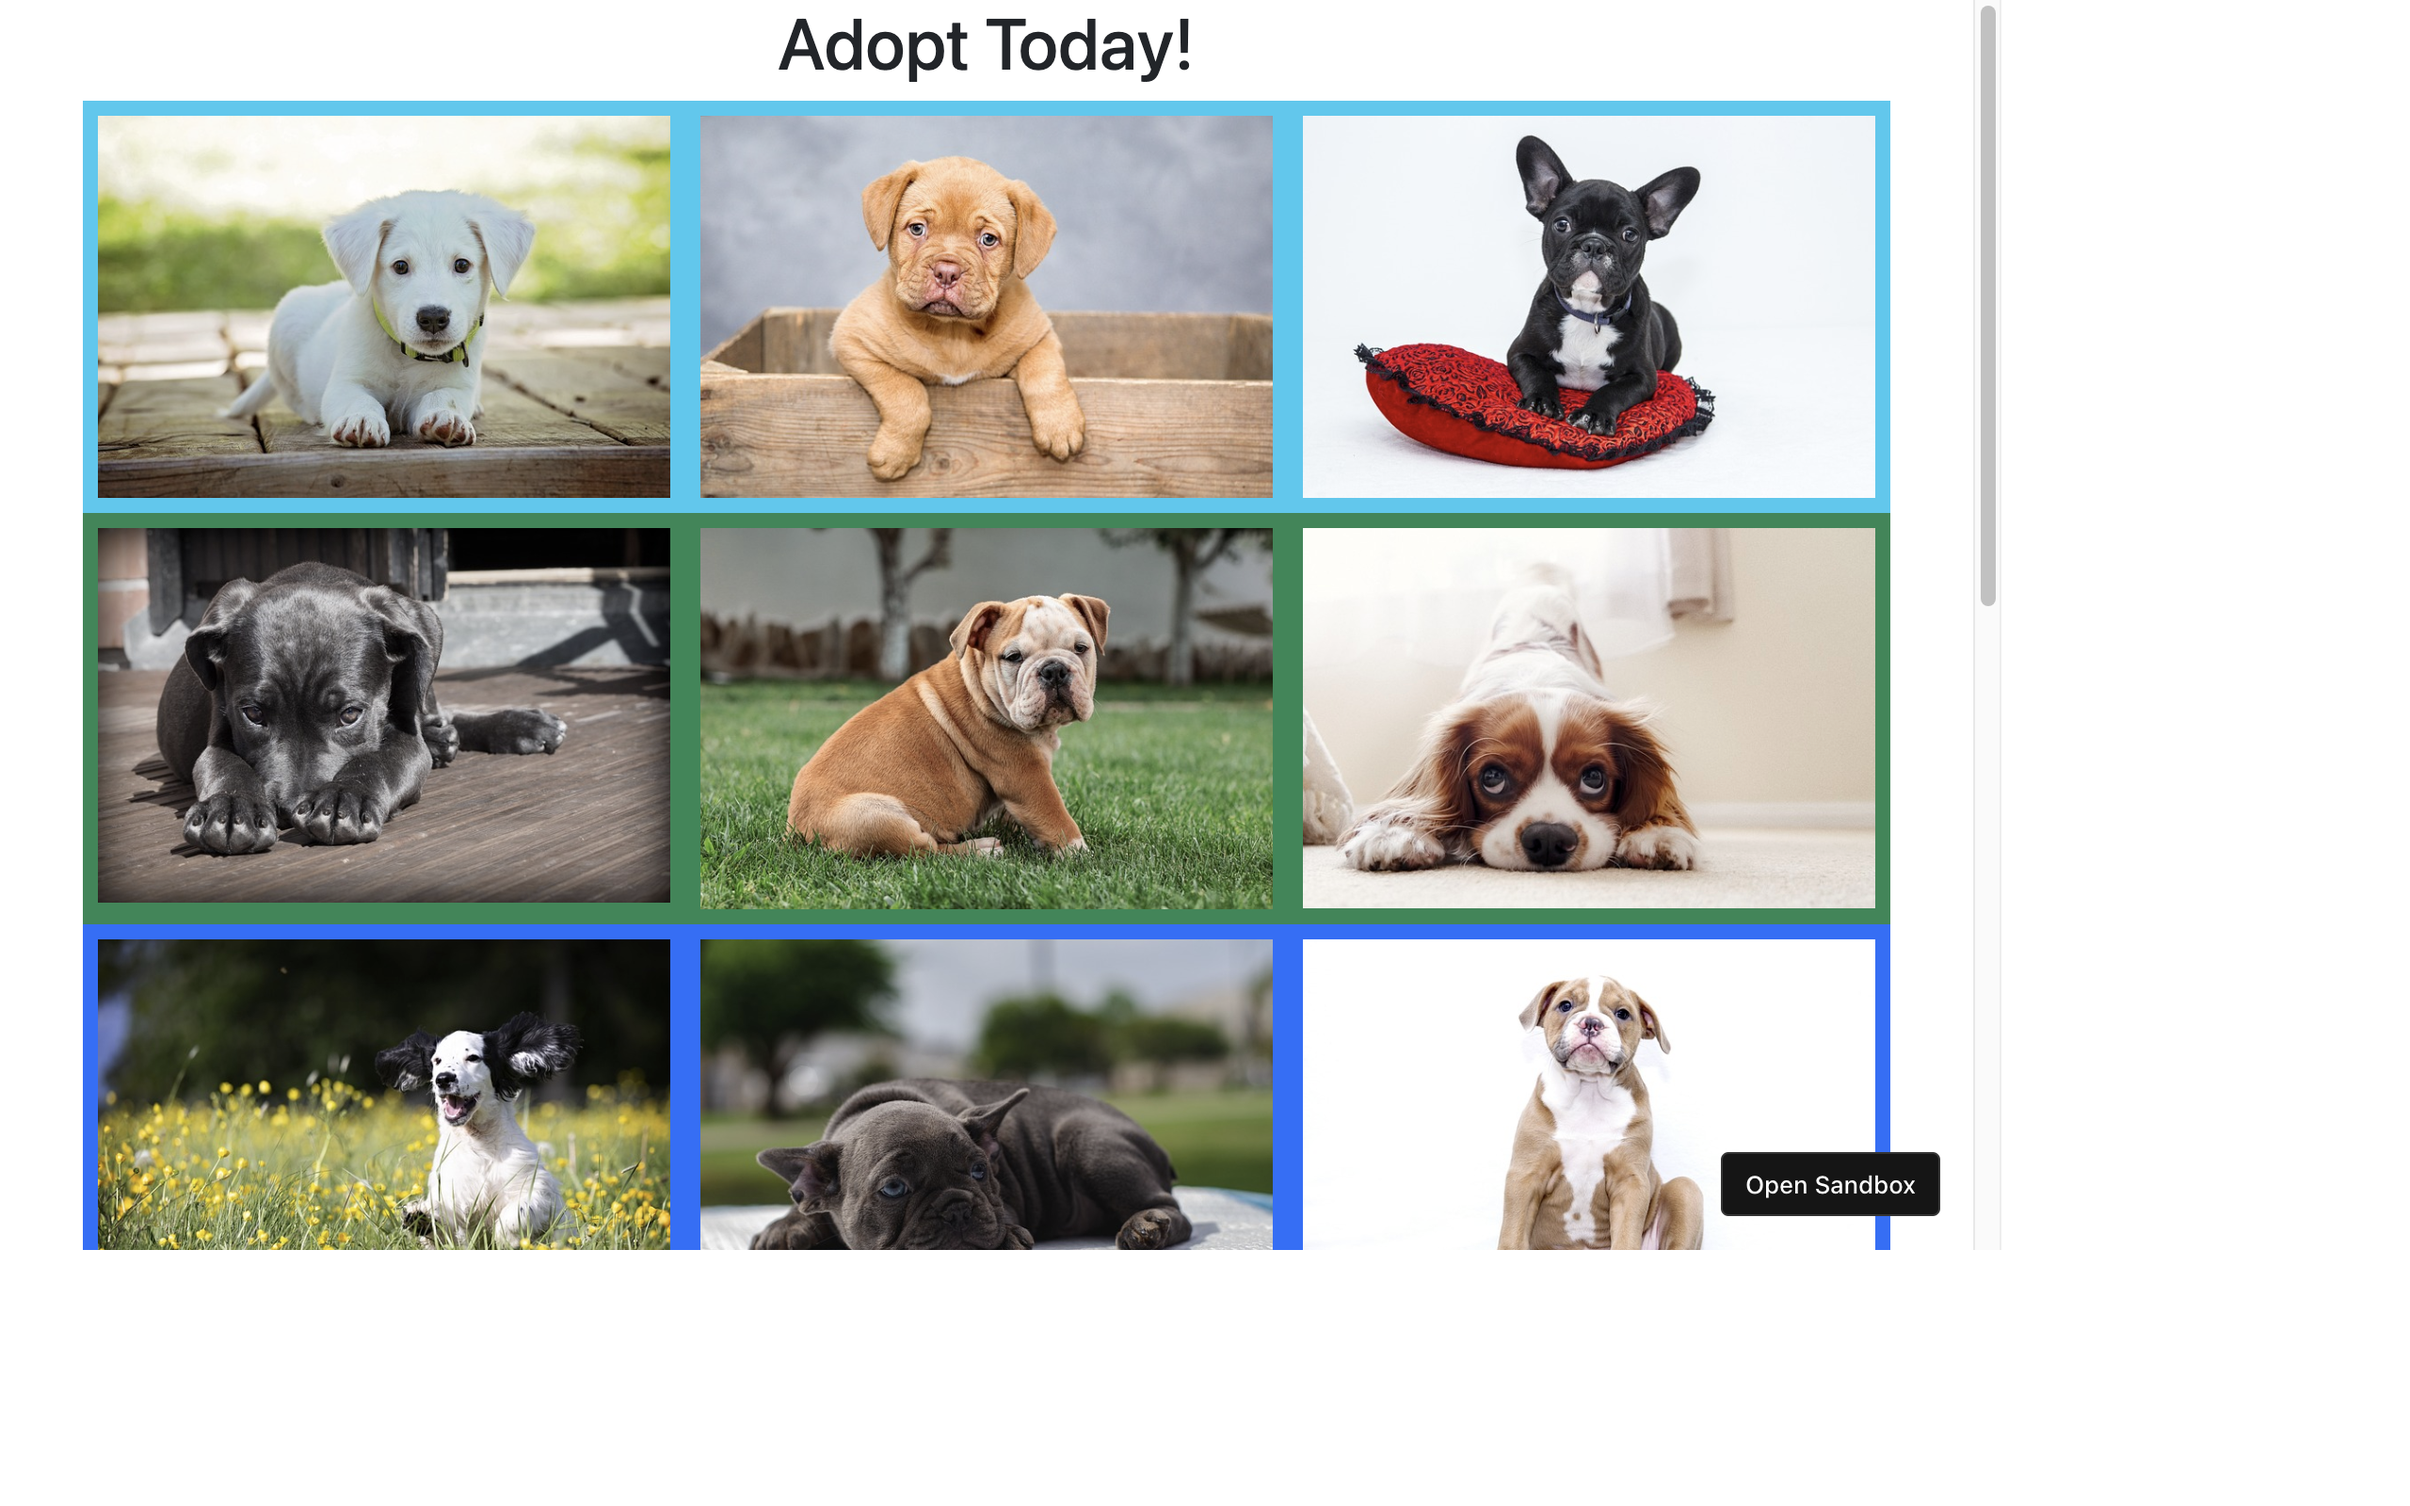
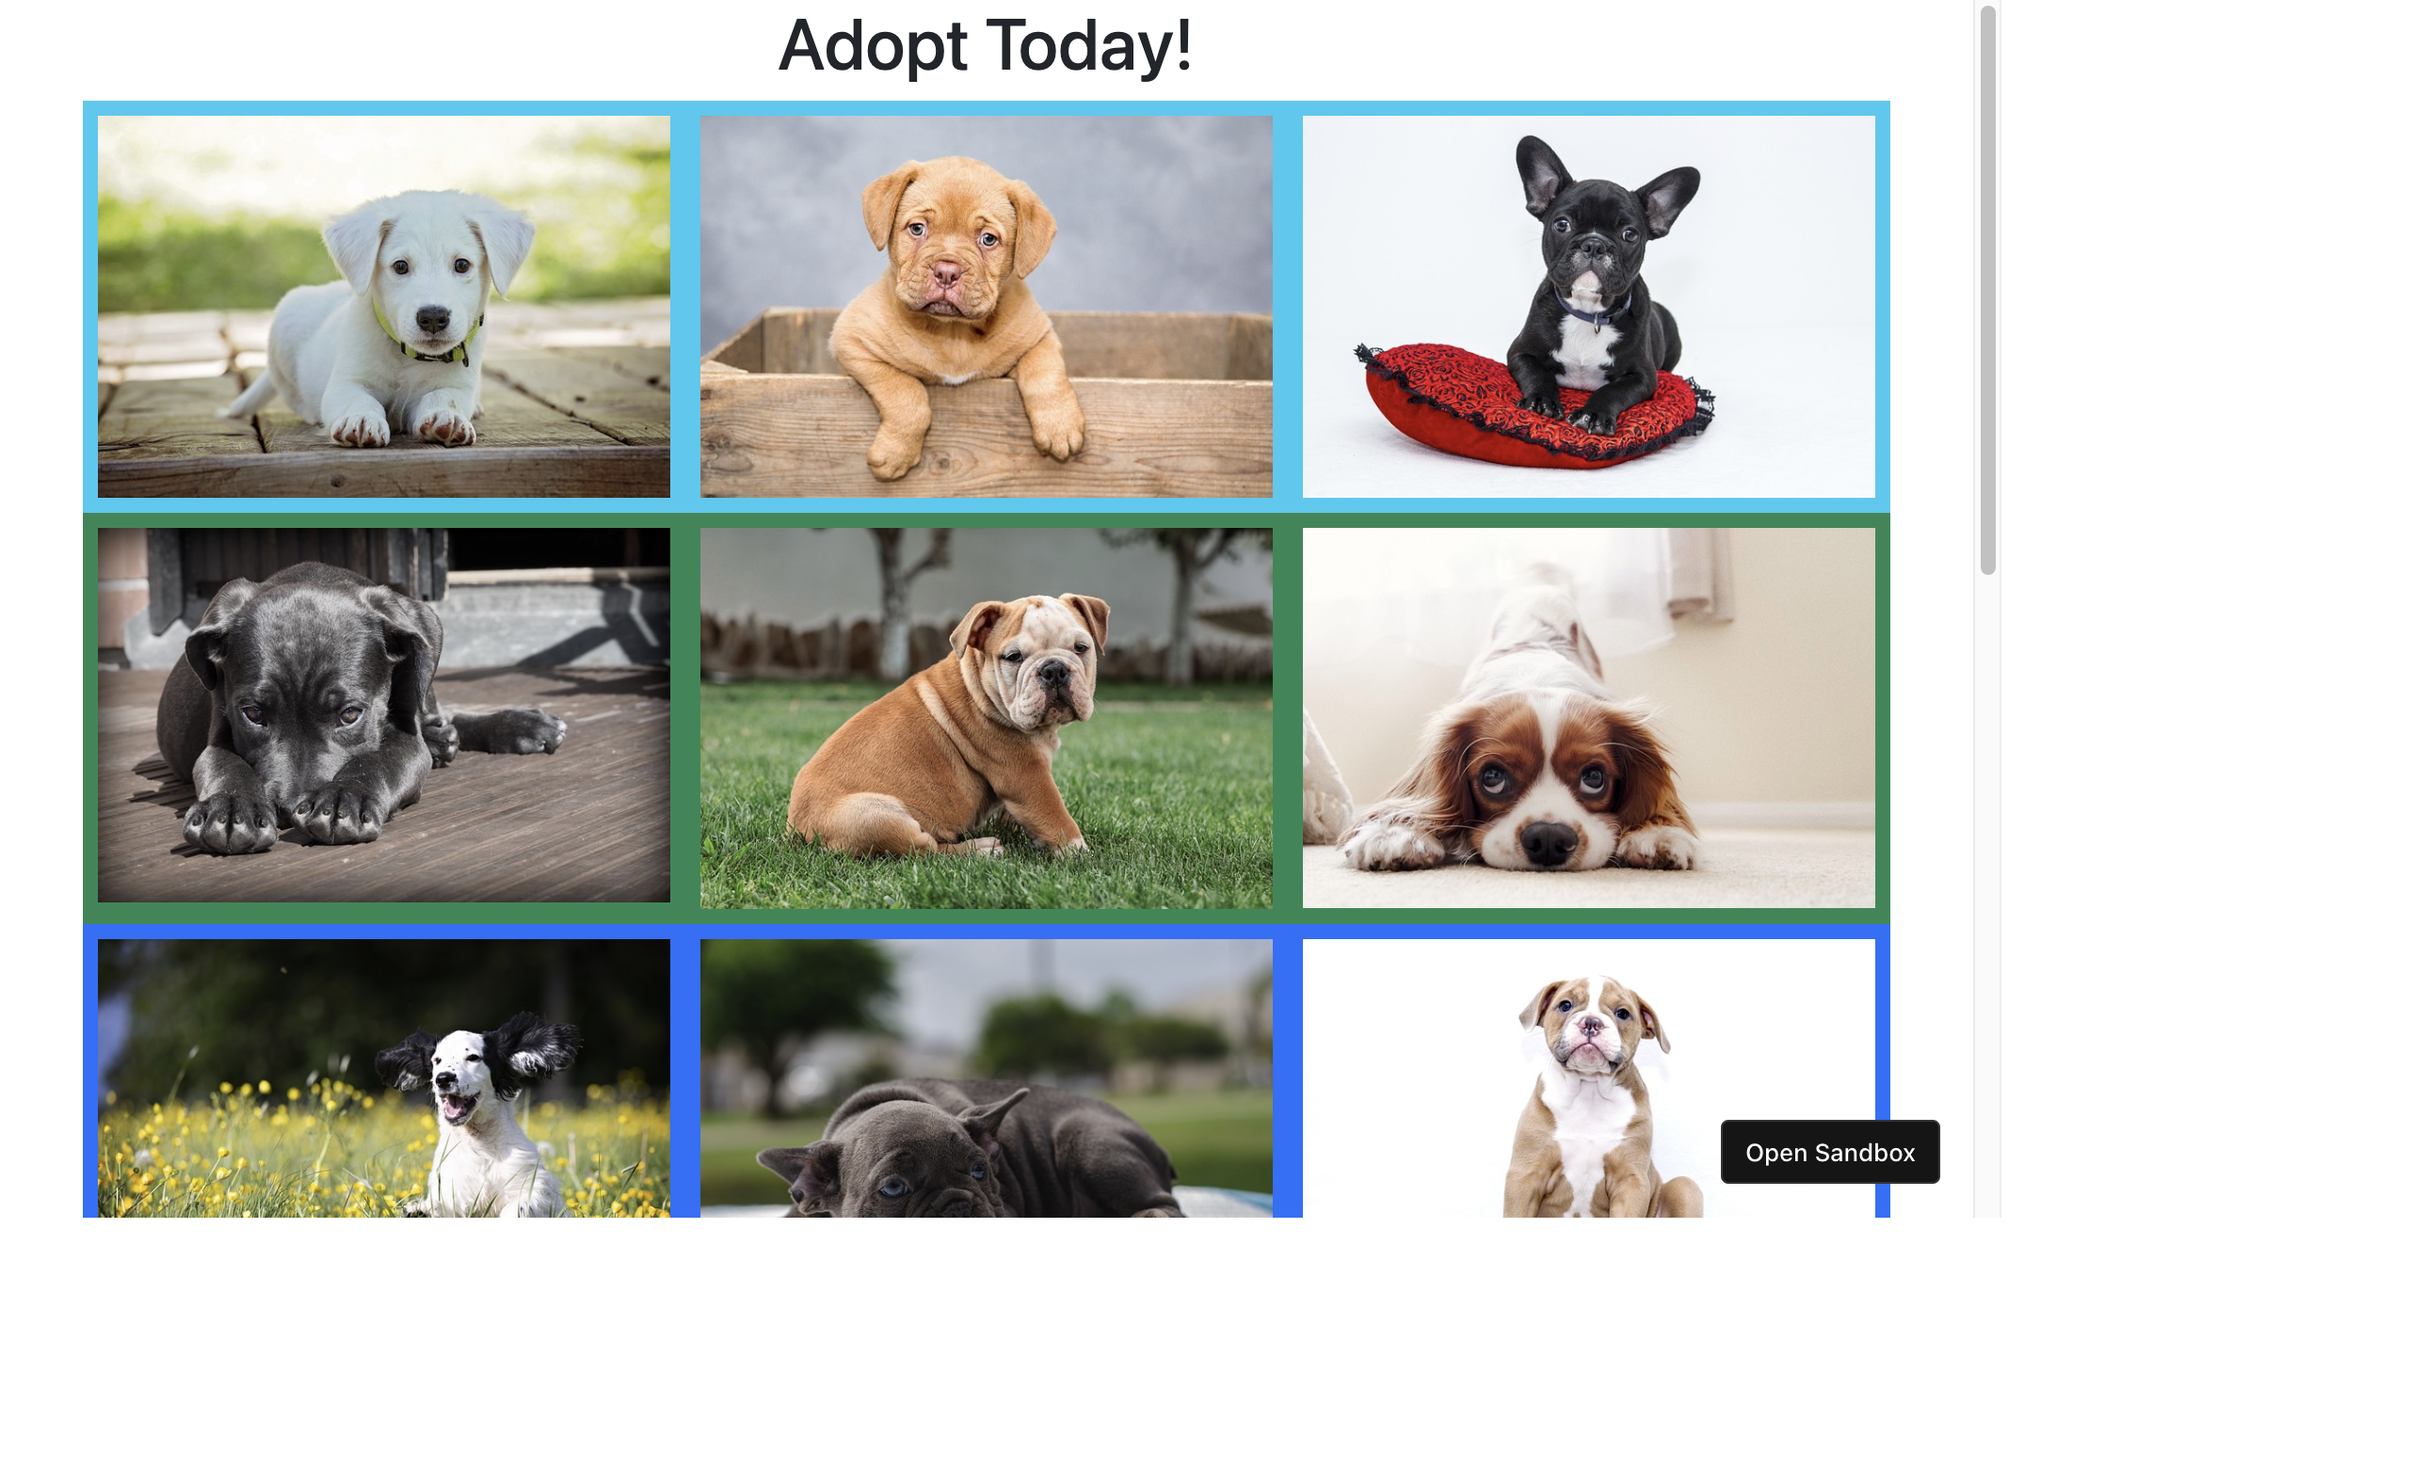
finished v6

Changed region(s): [[0.0312, 0.0308, 0.7812, 0.8308], [0.6875, 0.4, 0.7188, 0.4308]]

diff --git a/script.js b/script.js
@@ -1159,7 +1159,7 @@ function renderFeatured() {
   const y3 = featured.filter(p => p.year === 3);
   return `
     <p>Eight of my best projects across all three years — each one has its own dedicated <em>Project Page</em> with the tech stack, features, and what I learned. Click <em>View Details</em> for the quick version, or <em>Project Page</em> for the full write-up.</p>
-    ${renderProjectGrid(y1, { showDetail: true, galleryClass: 'gallery--2col' })}
+    ${renderProjectGrid(y1, { showDetail: true, galleryClass: 'gallery--3col' })}
     ${renderProjectGrid(y2, { showDetail: true, galleryClass: 'gallery--3col' })}
     ${renderProjectGrid(y3, { showDetail: true, galleryClass: 'gallery--3col' })}
   `;
